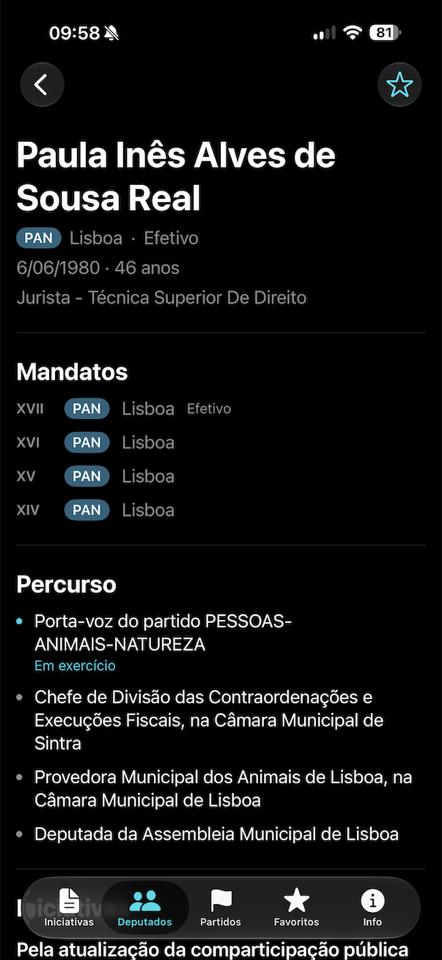
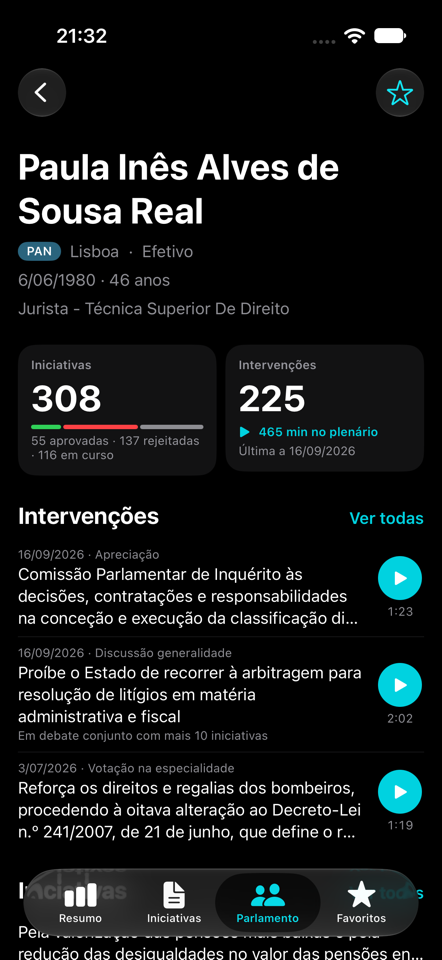
Screenshots: the 1.6 app - Resumo, charts, deputy speeches, Favoritos, share image
Eight phones instead of six, so the strip centres with auto margins and
scrolls from the first phone when it doesn't fit.

diff --git a/index.html b/index.html
@@ -130,31 +130,40 @@
     <section class="section screenshots-section">
       <div class="container section-center">
         <h2>A app em ação</h2>
-        <p class="screenshots-intro">Um olhar pela app: explora iniciativas, acompanha votações partido a partido e conhece deputados e grupos parlamentares.</p>
+        <p class="screenshots-intro">Um olhar pela app: vê o resumo da legislatura, explora iniciativas, acompanha votações partido a partido e conhece deputados e grupos parlamentares.</p>
         <div class="screenshots-strip">
           <figure class="phone-wrap">
             <div class="phone-frame">
               <picture>
-                <source srcset="screenshots/iniciativas-dark.png?v=5" media="(prefers-color-scheme: dark)">
-                <img src="screenshots/iniciativas.png?v=5" alt="Lista de iniciativas legislativas, com pesquisa" class="phone-screen" loading="lazy" width="148" height="320">
+                <source srcset="screenshots/resumo-dark.png?v=6" media="(prefers-color-scheme: dark)">
+                <img src="screenshots/resumo.png?v=6" alt="Resumo da legislatura, com as novidades do dia e os temas mais debatidos" class="phone-screen" loading="lazy" width="148" height="320">
               </picture>
             </div>
-            <figcaption class="phone-label">Iniciativas</figcaption>
+            <figcaption class="phone-label">Resumo</figcaption>
           </figure>
           <figure class="phone-wrap">
             <div class="phone-frame">
               <picture>
-                <source srcset="screenshots/detalhe-dark.png?v=5" media="(prefers-color-scheme: dark)">
-                <img src="screenshots/detalhe.png?v=5" alt="Detalhe de uma iniciativa, com resumo e proponentes" class="phone-screen" loading="lazy" width="148" height="320">
+                <source srcset="screenshots/graficos-dark.png?v=6" media="(prefers-color-scheme: dark)">
+                <img src="screenshots/graficos.png?v=6" alt="Gráficos de temas e de propostas por partido" class="phone-screen" loading="lazy" width="148" height="320">
               </picture>
             </div>
-            <figcaption class="phone-label">Detalhe</figcaption>
+            <figcaption class="phone-label">Gráficos</figcaption>
           </figure>
           <figure class="phone-wrap">
             <div class="phone-frame">
               <picture>
-                <source srcset="screenshots/votacao-dark.png?v=5" media="(prefers-color-scheme: dark)">
-                <img src="screenshots/votacao.png?v=5" alt="Cronologia e votação de uma iniciativa, com o sentido de voto de cada partido" class="phone-screen" loading="lazy" width="148" height="320">
+                <source srcset="screenshots/detalhe-dark.png?v=6" media="(prefers-color-scheme: dark)">
+                <img src="screenshots/detalhe.png?v=6" alt="Detalhe de uma iniciativa, com resumo e proponentes" class="phone-screen" loading="lazy" width="148" height="320">
+              </picture>
+            </div>
+            <figcaption class="phone-label">Iniciativa</figcaption>
+          </figure>
+          <figure class="phone-wrap">
+            <div class="phone-frame">
+              <picture>
+                <source srcset="screenshots/votacao-dark.png?v=6" media="(prefers-color-scheme: dark)">
+                <img src="screenshots/votacao.png?v=6" alt="Cronologia e votação de uma iniciativa, com o sentido de voto de cada partido" class="phone-screen" loading="lazy" width="148" height="320">
               </picture>
             </div>
             <figcaption class="phone-label">Votações</figcaption>
@@ -162,8 +171,8 @@
           <figure class="phone-wrap">
             <div class="phone-frame">
               <picture>
-                <source srcset="screenshots/deputado-dark.png?v=5" media="(prefers-color-scheme: dark)">
-                <img src="screenshots/deputado.png?v=5" alt="Perfil de um deputado, com mandatos e percurso" class="phone-screen" loading="lazy" width="148" height="320">
+                <source srcset="screenshots/deputado-dark.png?v=6" media="(prefers-color-scheme: dark)">
+                <img src="screenshots/deputado.png?v=6" alt="Perfil de um deputado, com iniciativas e intervenções no plenário" class="phone-screen" loading="lazy" width="148" height="320">
               </picture>
             </div>
             <figcaption class="phone-label">Deputado</figcaption>
@@ -171,20 +180,28 @@
           <figure class="phone-wrap">
             <div class="phone-frame">
               <picture>
-                <source srcset="screenshots/partidos-dark.png?v=5" media="(prefers-color-scheme: dark)">
-                <img src="screenshots/partidos.png?v=5" alt="Lista de partidos com deputados de cada grupo parlamentar" class="phone-screen" loading="lazy" width="148" height="320">
+                <source srcset="screenshots/partido-dark.png?v=6" media="(prefers-color-scheme: dark)">
+                <img src="screenshots/partido.png?v=6" alt="Detalhe de um partido, com iniciativas propostas e sentido de voto" class="phone-screen" loading="lazy" width="148" height="320">
               </picture>
             </div>
-            <figcaption class="phone-label">Partidos</figcaption>
+            <figcaption class="phone-label">Partido</figcaption>
           </figure>
           <figure class="phone-wrap">
             <div class="phone-frame">
               <picture>
-                <source srcset="screenshots/partido-detalhe-dark.png?v=5" media="(prefers-color-scheme: dark)">
-                <img src="screenshots/partido-detalhe.png?v=5" alt="Detalhe de um partido, com deputados e iniciativas" class="phone-screen" loading="lazy" width="148" height="320">
+                <source srcset="screenshots/favoritos-dark.png?v=6" media="(prefers-color-scheme: dark)">
+                <img src="screenshots/favoritos.png?v=6" alt="Favoritos, com as novidades das iniciativas que segues" class="phone-screen" loading="lazy" width="148" height="320">
               </picture>
             </div>
-            <figcaption class="phone-label">Partido</figcaption>
+            <figcaption class="phone-label">Favoritos</figcaption>
+          </figure>
+          <figure class="phone-wrap">
+            <div class="phone-frame">
+              <picture>
+                <img src="screenshots/partilha.png?v=6" alt="Imagem de partilha de uma iniciativa, com o resultado da votação" class="phone-screen" loading="lazy" width="148" height="320">
+              </picture>
+            </div>
+            <figcaption class="phone-label">Partilha</figcaption>
           </figure>
         </div>
       </div>

diff --git a/styles.css b/styles.css
@@ -230,8 +230,11 @@ p { margin: 0 0 1rem; }
   padding: 20px 0 12px;
   scrollbar-width: thin;
   scrollbar-color: var(--border) transparent;
-  justify-content: center;
 }
+/* Centred when the strip fits, scrollable from the first phone when it doesn't
+   (justify-content: center would clip the left end of an overflowing strip). */
+.phone-wrap:first-child { margin-left: auto; }
+.phone-wrap:last-child { margin-right: auto; }
 .phone-wrap { flex: 0 0 auto; margin: 0; display: flex; flex-direction: column; align-items: center; gap: 12px; }
 .phone-frame {
   width: 148px;
@@ -287,7 +290,6 @@ p { margin: 0 0 1rem; }
   h1 { font-size: 2.2rem; }
   .hero { padding: 48px 0 44px; }
   .hero-icon { width: 96px; height: 96px; border-radius: 22px; }
-  .screenshots-strip { justify-content: flex-start; }
 }
 
 /* ---- Dark mode ---- */
